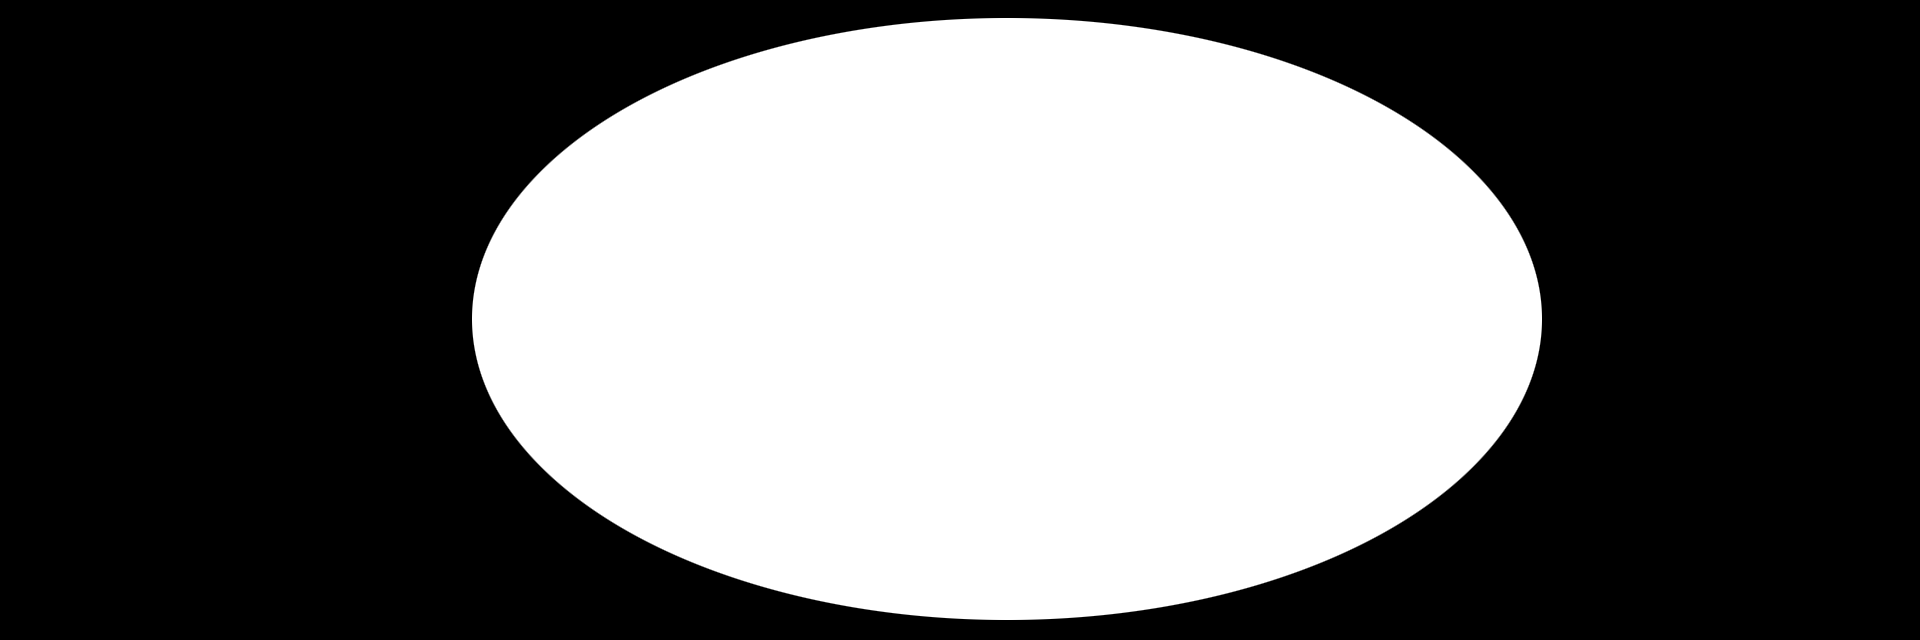
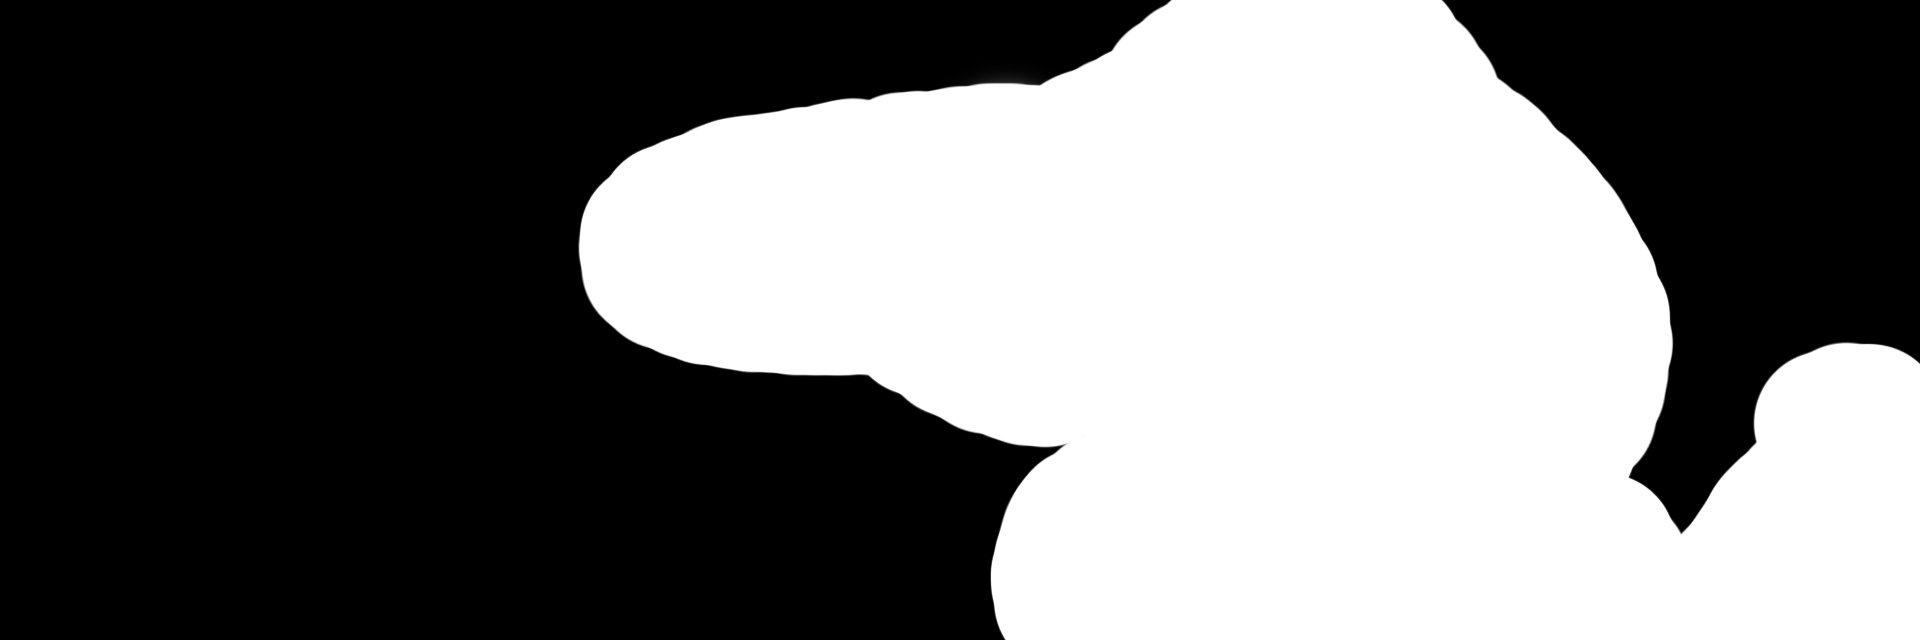
Updated 2nd input image and mask

Changed region(s): [[0.2188, 0.0, 1.0, 1.0]]

diff --git a/sketch.js b/sketch.js
@@ -3,9 +3,9 @@ let maskImg = null;
 let renderCounter = 0;
 
 // change these three lines as appropiate
-let sourceFile = "input_1.jpg";
-let maskFile = "mask_1.png";
-let outputFile = "output_1.png";
+let sourceFile = "input_2.jpg";
+let maskFile = "mask_2.png";
+let outputFile = "output_2.png";
 
 function preload() {
   sourceImg = loadImage(sourceFile);
@@ -43,7 +43,7 @@ function draw() {
     console.log("Done!")
     noLoop();
     // uncomment this to save the result
-    // saveArtworkImage(outputFile);
+     //saveArtworkImage(outputFile);
   }
 }
 

diff --git a/README.md b/README.md
@@ -1,5 +1,5 @@
 ## Creative Coding 2: Custom Pixel
 
-I have started putting in my own input images and changing the mask to work with the new images. I am finding the project pretty easy to understand at this point and am excited to get more into changing the code and seeing how that changes the render. Unfortunately at this stage the thumbnail and preview will not display correctly 
+I have started putting in my own input images and changing the mask to work with the new images. I am finding the project pretty easy to understand at this point and am excited to get more into changing the code and seeing how that changes the render. Unfortunately at this stage the thumbnail and preview will not display correctly
 
-The images above are photos from around my farm and the area I live in algorithmically processed with a lightly modified version of the [p5.js Pointillism example](https://p5js.org/examples/image-pointillism.html). The masks for each photo highlight various objects. In this image, I have used the mask to highlight the cow in the middle of the image.
+The images above are photos from around my farm and the area I live in algorithmically processed with a lightly modified version of the [p5.js Pointillism example](https://p5js.org/examples/image-pointillism.html). The masks for each photo highlight various objects. In this image, I have used the mask to highlight the flowers in the middle of the image.
